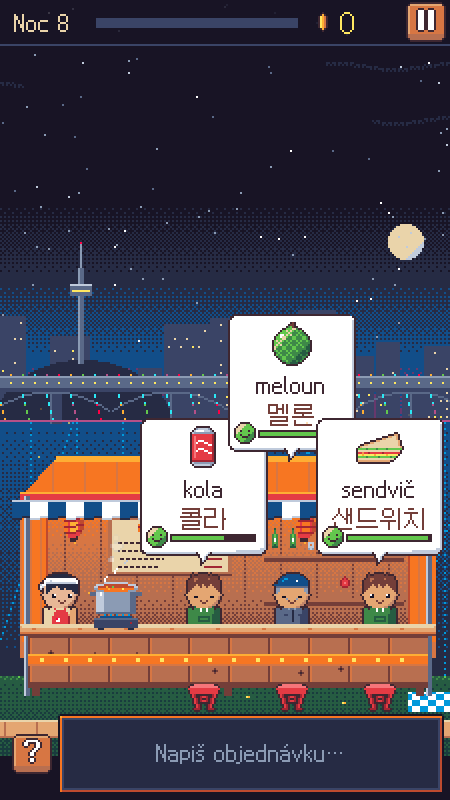
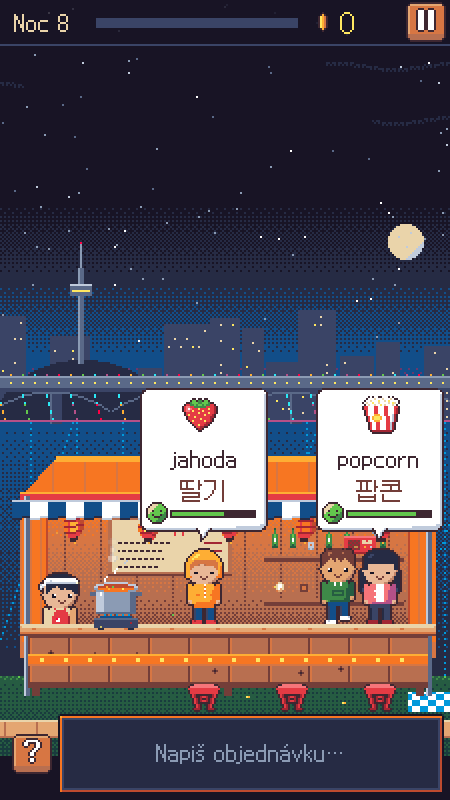
Raise seated customers so served dishes don't cover faces; refresh screenshots

Changed region(s): [[0.3111, 0.375, 0.9956, 0.7812]]

diff --git a/src/scenes/Story.ts b/src/scenes/Story.ts
@@ -24,12 +24,12 @@ export class StoryScene extends Phaser.Scene {
     if (!ending) {
       // grandma stands behind the counter, the chef (you) walks in
       this.street.chef.setVisible(false);
-      const h = this.add.sprite(this.street.wx(-84), this.street.wy(-36), 'char_halmeoni').setOrigin(0.5, 1).setDepth(DEPTH.chef).play('char_halmeoni:idle');
+      const h = this.add.sprite(this.street.wx(-84), this.street.wy(-40), 'char_halmeoni').setOrigin(0.5, 1).setDepth(DEPTH.chef).play('char_halmeoni:idle');
       const you = this.add.sprite(this.street.wx(140), this.street.wy(-28), 'chef').setOrigin(0.5, 1).setDepth(DEPTH.customer).play('chef:idle');
       this.tweens.add({ targets: you, x: this.street.wx(20), duration: 1800, ease: 'Sine.easeOut' });
       void h;
     } else {
-      ['char_kim', 'char_haeun'].forEach((k, i) => this.add.sprite(this.street.wx(this.street.seatX[i]), this.street.wy(-36), k).setOrigin(0.5, 1).setDepth(DEPTH.customer).play(`${k}:happy`));
+      ['char_kim', 'char_haeun'].forEach((k, i) => this.add.sprite(this.street.wx(this.street.seatX[i]), this.street.wy(-40), k).setOrigin(0.5, 1).setDepth(DEPTH.customer).play(`${k}:happy`));
       const cat = G.data.friends.nabi?.chapter >= 2 ? 'nabi_fat' : 'nabi';
       this.add.sprite(this.street.wx(this.street.seatX[2]), this.street.wy(-41), cat).setOrigin(0.5, 1).setDepth(DEPTH.customer).play(`${cat}:sit`);
     }

diff --git a/src/scenes/Night.ts b/src/scenes/Night.ts
@@ -276,7 +276,7 @@ export class NightScene extends Phaser.Scene {
   }
 
   private placeCustomer(c: Customer, relayout = false) {
-    const y = c.kind === 'nabi' ? this.street.wy(-41) : this.street.wy(-36);
+    const y = c.kind === 'nabi' ? this.street.wy(-41) : this.street.wy(-40);
     c.sprite.y = y;
     if (relayout && c.state !== 'walk' && c.state !== 'leave') c.sprite.x = this.street.wx(this.street.seatX[c.seat]);
     if (c.bubble) this.placeBubble(c);
@@ -286,7 +286,7 @@ export class NightScene extends Phaser.Scene {
     const b = c.bubble!;
     const W = this.scale.width;
     const row = c.kind === 'critic' ? 1 : c.seat % 2;
-    const anchorY = this.street.wy(c.kind === 'nabi' ? -58 : -78) - row * 56;
+    const anchorY = this.street.wy(c.kind === 'nabi' ? -58 : -82) - row * 56;
     const cx = this.street.wx(this.street.seatX[c.seat]);
     let x = Math.round(cx - b.bw / 2);
     x = Math.max(2, Math.min(W - b.bw - 2, x));

diff --git a/src/scenes/Title.ts b/src/scenes/Title.ts
@@ -17,7 +17,7 @@ export class TitleScene extends Phaser.Scene {
     G.audio.setAmbient('rain');
     G.audio.setLofi(G.hasUpgrade('radio'));
     // a sleepy regular and the cat keep the stall company
-    const kim = this.add.sprite(this.street.wx(this.street.seatX[1]), this.street.wy(-36), 'char_kim').setOrigin(0.5, 1).setDepth(DEPTH.customer).play('char_kim:idle');
+    const kim = this.add.sprite(this.street.wx(this.street.seatX[1]), this.street.wy(-40), 'char_kim').setOrigin(0.5, 1).setDepth(DEPTH.customer).play('char_kim:idle');
     const cat = this.add.sprite(this.street.wx(this.street.seatX[2]), this.street.wy(-41), G.data.friends.nabi?.chapter >= 2 ? 'nabi_fat' : 'nabi').setOrigin(0.5, 1).setDepth(DEPTH.customer + 1);
     cat.play(`${cat.texture.key}:sit`);
     void kim;
